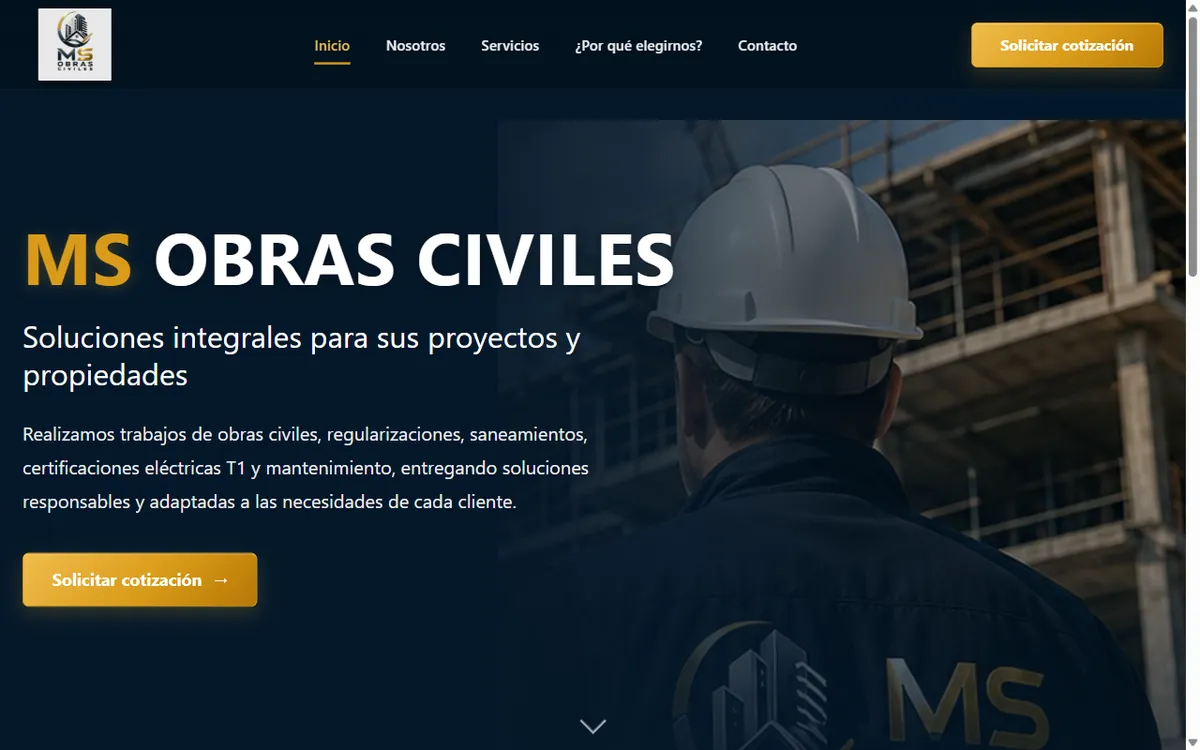
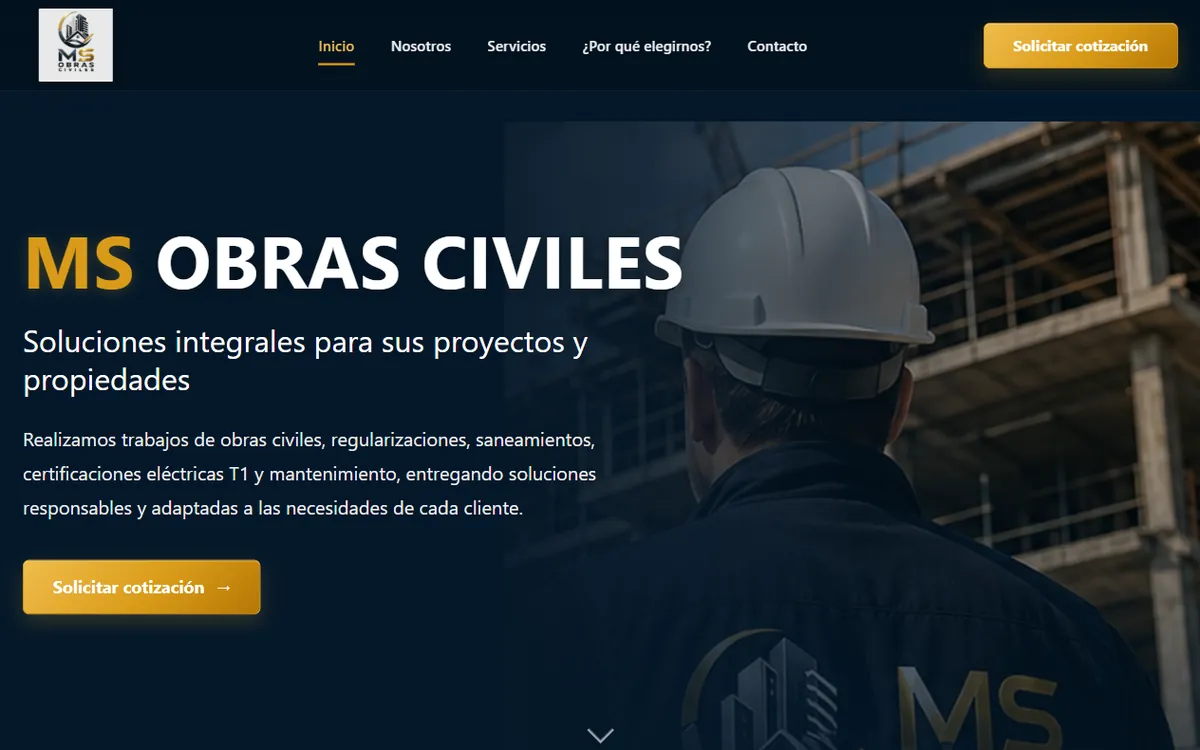
fix: capturas sin barra de desplazamiento y bloque Conversamos transparente

diff --git a/assets/css/styles.css b/assets/css/styles.css
@@ -495,11 +495,10 @@ body::before {
   grid-template-columns: 1fr auto;
   gap: 2rem;
   align-items: center;
-  padding: 2rem;
-  background: linear-gradient(135deg, rgba(16, 26, 43, 0.98), rgba(7, 17, 31, 0.98));
-  border: 1px solid var(--line);
-  border-radius: 8px;
-  box-shadow: 0 16px 48px rgba(0, 0, 0, 0.28);
+  padding: 1rem 0;
+  background: transparent;
+  border: 0;
+  box-shadow: none;
 }
 
 .contact-actions {
